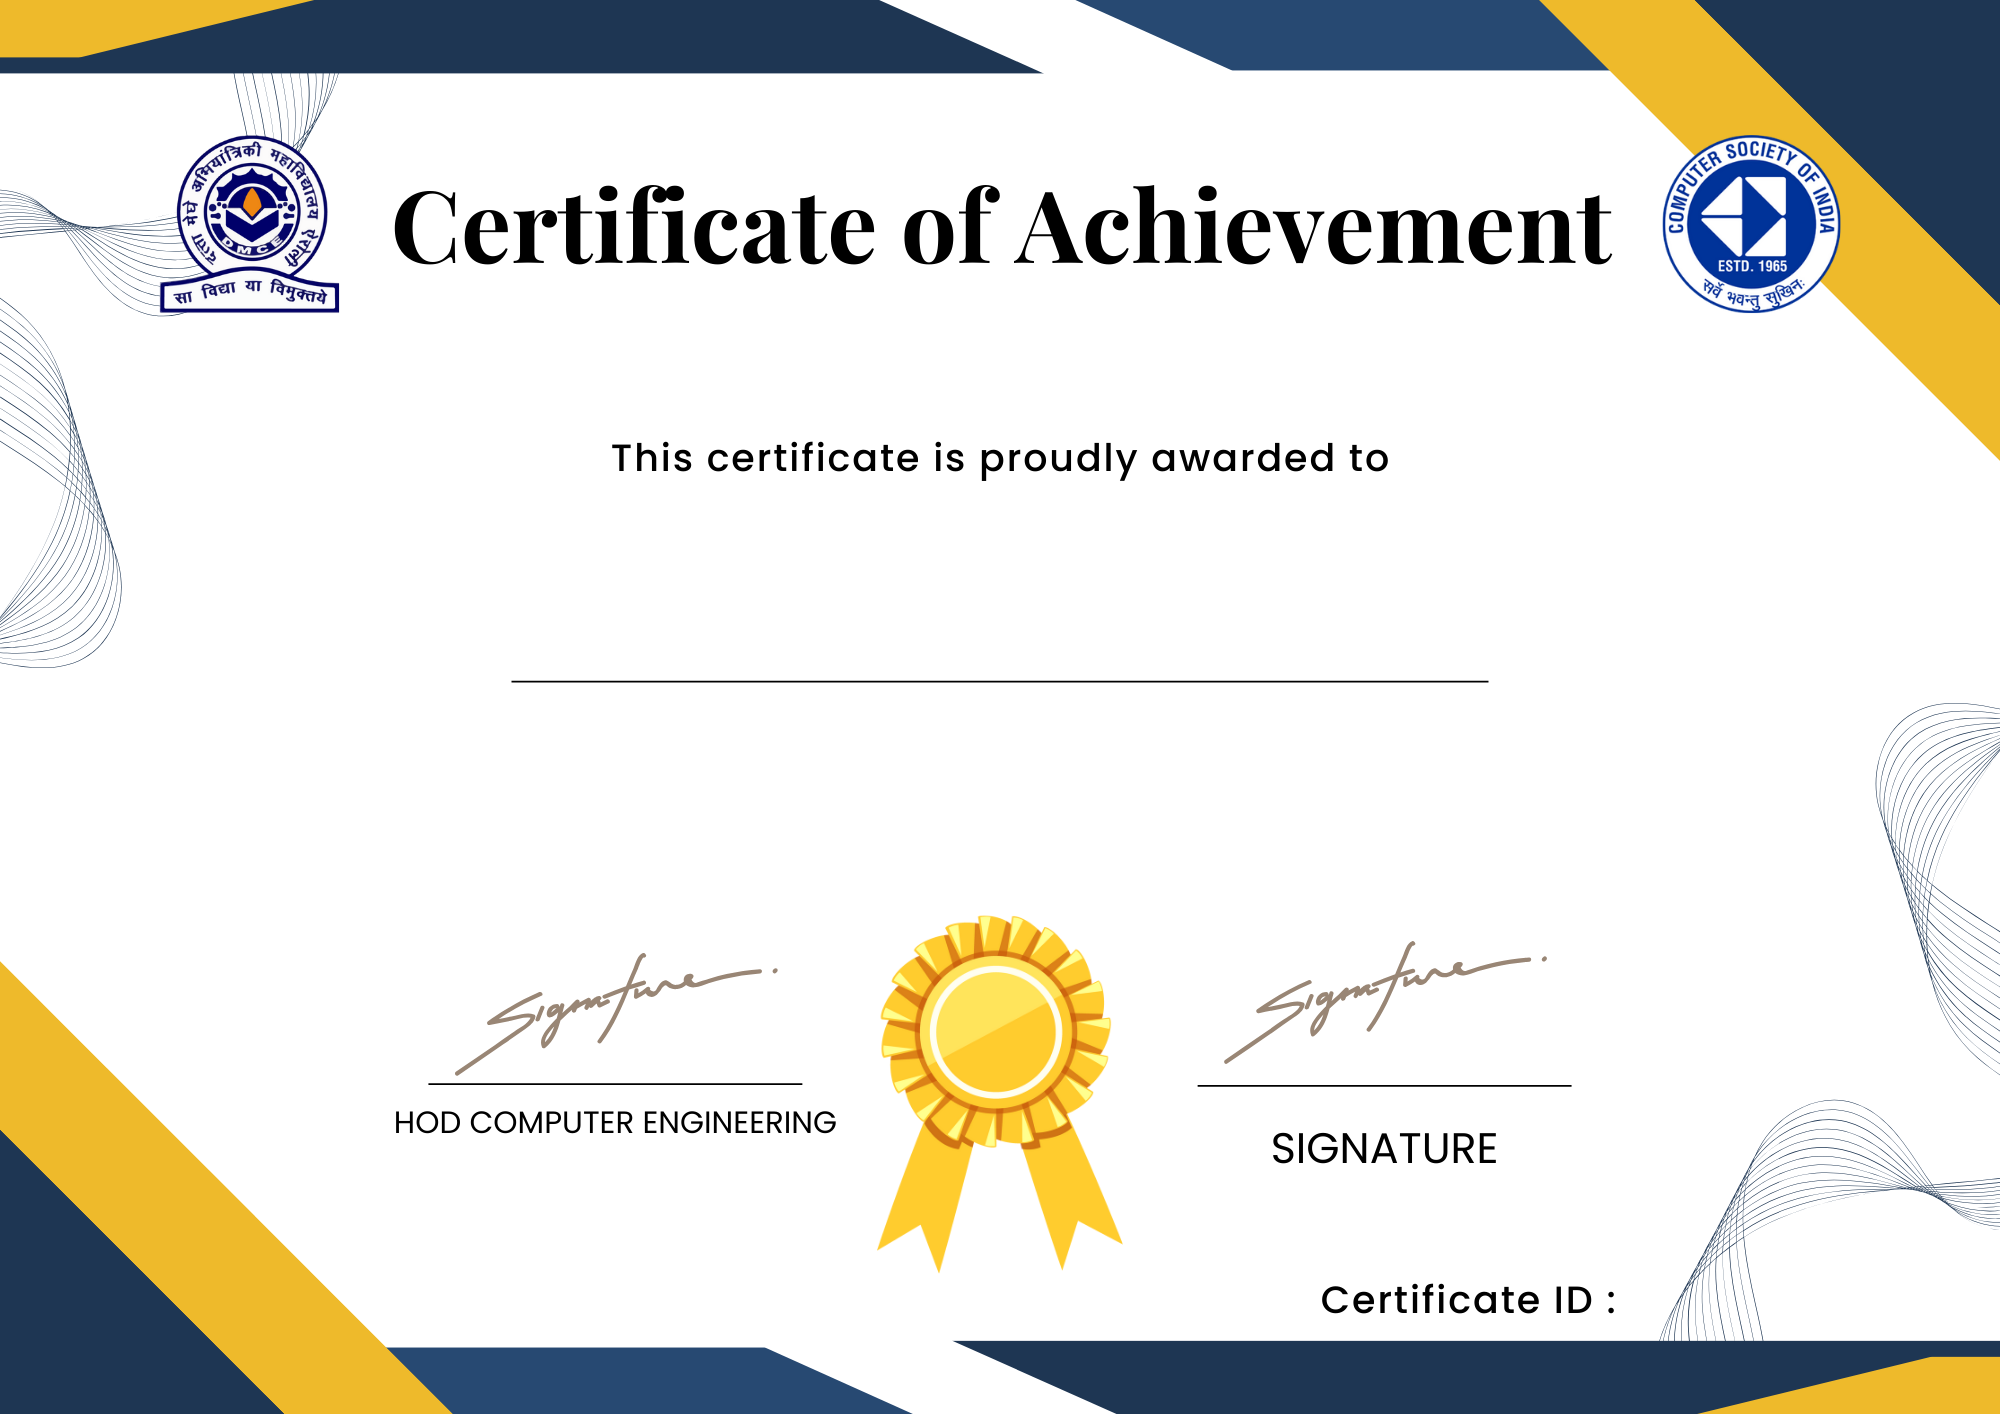
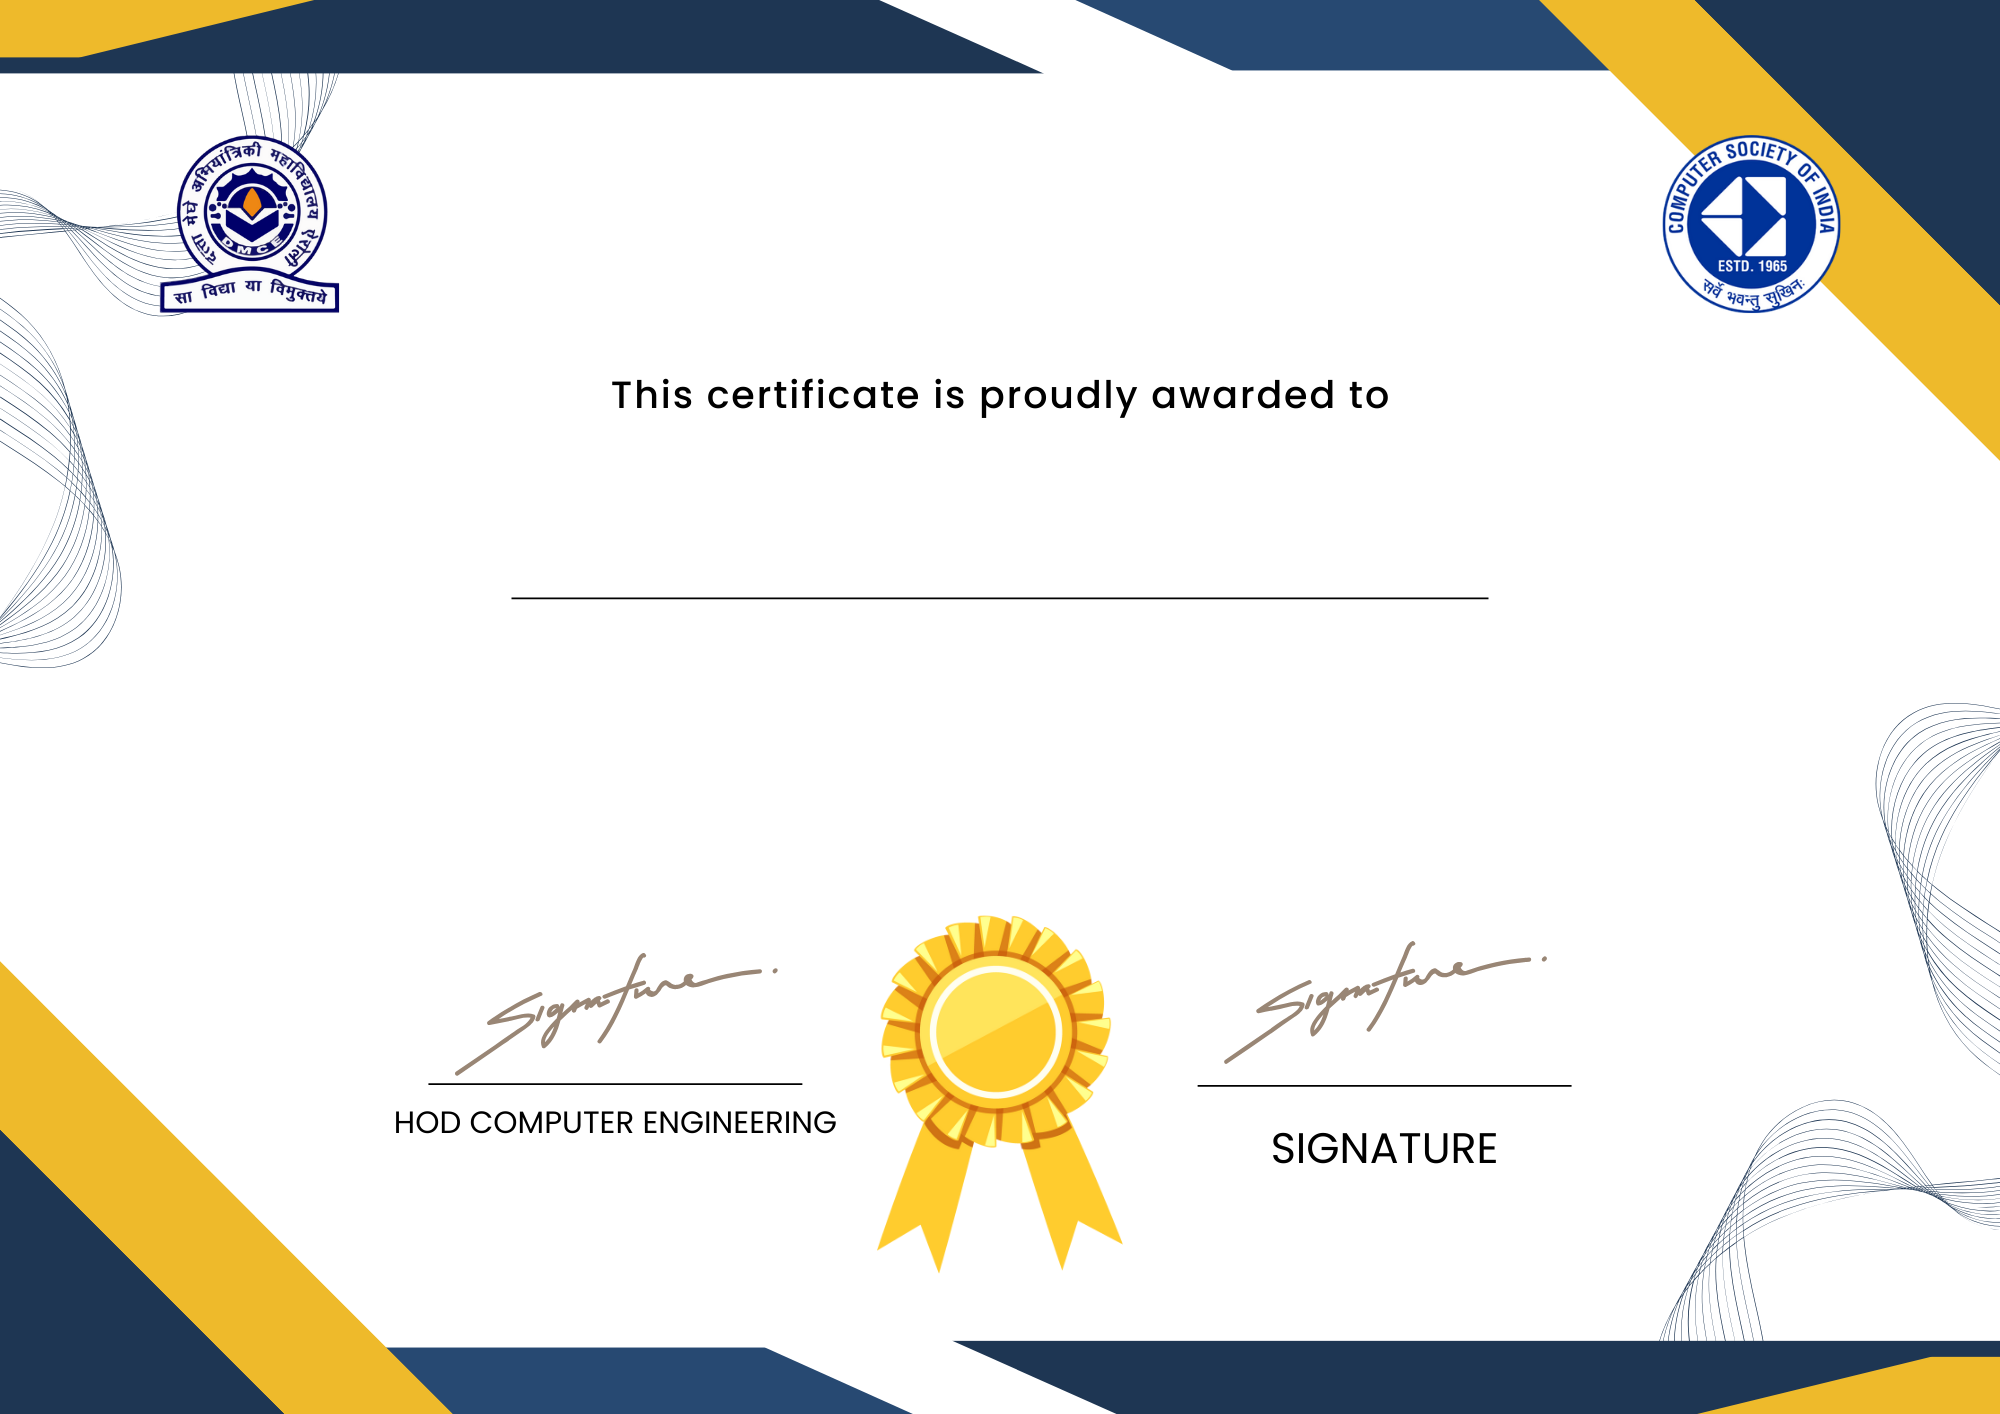
Certificate template optimized

Changed region(s): [[0.186, 0.1245, 0.806, 0.1867], [0.31, 0.2489, 0.682, 0.3423], [0.651, 0.9024, 0.806, 0.9335]]

diff --git a/client/src/pages/AuthScreens/VerifyCertificate/VerifyCertificate.js b/client/src/pages/AuthScreens/VerifyCertificate/VerifyCertificate.js
@@ -14,18 +14,62 @@ const VerifyCertificate = () => {
     AuthCertificate(id, toggleLoading, setCertificateData);
   }, []);
 
+  const formatDate = (dateString) => {
+    const date = new Date(dateString);
+    return date.toLocaleDateString("en-GB", {
+      day: "2-digit",
+      month: "long",
+      year: "numeric",
+    });
+  };
+
+  const getPositionText = (position) => {
+    if (position === 0) {
+      return "participation";
+    } else if (position === 1) {
+      return "1st";
+    } else if (position === 2) {
+      return "2nd";
+    } else if (position === 3) {
+      return "3rd";
+    } else {
+      return ``;
+    }
+  };
+
   return (
     <div className="auth-certi">
-      <div className="certificate">
-        <img src={Certificate} alt="" className="img-fluid" />
-        <p id="name">{certificateData?.name}</p>
-        <p id="desc">
-          has achieved the 1st position at the ABC Event organized by CSI DMCE
-          at Datta Meghe College of Engineering.
-        </p>
-        {/* <p>Position: {certificateData?.position}</p>
-        <p>Date: {certificateData?.date}</p> */}
-      </div>
+      {certificateData && (
+        <div className="certificate">
+          <img src={Certificate} alt="" className="img-fluid" />
+          <p
+            id="title"
+            style={{
+              fontSize: `min(4vw, 45px)`,
+            }}
+          >
+            Certificate of{" "}
+            {certificateData?.position === 0 ? "Participation" : "Achievement"}
+          </p>
+          <p id="name">{certificateData?.name}</p>
+          {certificateData?.position === 0 ? (
+            <p id="desc">
+              for participation in the <b>{certificateData?.event_id}</b>{" "}
+              organized by CSI DMCE on {formatDate(certificateData?.date)}, at
+              Datta Meghe College of Engineering, Airoli.
+            </p>
+          ) : (
+            <p id="desc">
+              for achieving the{" "}
+              <b>{getPositionText(certificateData?.position)} position</b> at{" "}
+              <b>{certificateData?.event_id}</b> organized by CSI DMCE on{" "}
+              {formatDate(certificateData?.date)}, at Datta Meghe College of
+              Engineering, Airoli.
+            </p>
+          )}
+          <p id="uid">Certificate ID : {certificateData?.uid}</p>
+        </div>
+      )}
     </div>
   );
 };

diff --git a/client/src/pages/AuthScreens/VerifyCertificate/VerifyVertificate.css b/client/src/pages/AuthScreens/VerifyCertificate/VerifyVertificate.css
@@ -66,9 +66,23 @@
   position: relative;
 }
 
+.auth-certi .certificate #title {
+  position: absolute;
+  top: 16%;
+  left: 50%;
+  transform: translate(-50%, -50%);
+  font-weight: 600;
+  color: #000;
+  text-transform: capitalize;
+  white-space: nowrap;
+  text-align: center;
+  font-weight: 600;
+  font-style: normal;
+}
+
 .auth-certi .certificate #name {
   position: absolute;
-  top: 44%;
+  top: 39%;
   left: 50%;
   transform: translate(-50%, -50%);
   font-size: 3.4em;
@@ -85,14 +99,25 @@
 
 .auth-certi .certificate #desc {
   position: absolute;
-  top: 55%;
+  top: 52%;
   left: 50%;
   transform: translate(-50%, -50%);
+  font-weight: 400;
+  color: #000;
+  font-size: 1.1em;
+  width: 70%;
+  text-align: center;
+}
+
+.auth-certi .certificate #uid {
+  position: absolute;
+  bottom: 6%;
+  right: 3%;
   font-size: 1.5em;
   font-weight: 400;
   color: #000;
   font-size: 1em;
-  width: 70%;
+  white-space: nowrap;
   text-align: center;
 }
 
@@ -110,6 +135,9 @@
     font-size: 0.7em;
     width: 80%;
   }
+  .auth-certi .certificate #uid {
+    font-size: 0.8em;
+  }
 }
 
 @media (max-width: 580px) {
@@ -120,7 +148,11 @@
     font-size: 1.3em;
   }
   .auth-certi .certificate #desc {
-    width: 85%;
+    width: 88%;
+    font-size: 0.5em;
+    top: 54%;
+  }
+  .auth-certi .certificate #uid {
     font-size: 0.5em;
   }
 }
